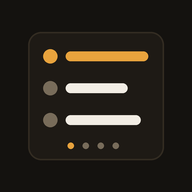
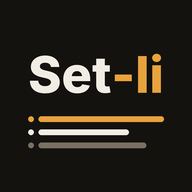
v1.36.0: アイコンをSet-liに、ホーム画面版の名前をセットリストに
Claude-Session: https://claude.ai/code/session_01XBER4d8GT4CZjhEGX2mxmY

Changed region(s): [[0.125, 0.2188, 0.875, 0.8438], [0.1875, 0.1562, 0.8438, 0.2188], [0.1562, 0.1875, 0.1875, 0.2188]]

diff --git a/index.html b/index.html
@@ -22,7 +22,8 @@
 <meta name="mobile-web-app-capable" content="yes">
 <meta name="apple-mobile-web-app-title" content="セットリスト">
 <meta name="apple-mobile-web-app-status-bar-style" content="black-translucent">
-<link rel="apple-touch-icon" href="icons/apple-touch-icon.png">
+<link rel="apple-touch-icon" href="icons/apple-touch-icon.png?v=2">
+<link rel="icon" type="image/png" href="icons/icon-192.png?v=2">
 <style>
 :root{
   --bg:#EDE8DE; --surface:#F8F5EC; --surface2:#FFFFFF; --text:#211D16; --muted:#6B6355;
@@ -808,13 +809,16 @@ if(songsMigrated) saveSongs();
 let livesMigrated = false;
 lives.forEach((l,i) => { if(l.updatedAt===undefined){ l.updatedAt = i; livesMigrated = true; } });
 if(livesMigrated) saveLives();
-const APP_VERSION = '1.35.2';        // セマンティックバージョン（メジャー.マイナー.パッチ）。更新のたびに上げる。CHANGELOG.md と合わせる
+const APP_VERSION = '1.36.0';        // セマンティックバージョン（メジャー.マイナー.パッチ）。更新のたびに上げる。CHANGELOG.md と合わせる
 const APP_RELEASE_DATE = '2026-10-17';
 const SCHEMA_VERSION = 1;  // 保存データの形式番号。データ構造を変えるときに上げ、起動時に古い形式を変換する
 const FEEDBACK_URL = 'https://tally.so/r/9qL0A4';  // ご意見・不具合報告フォーム（Tally）
 const CHANGELOG_URL = 'https://github.com/sunatrux/setlist/blob/main/CHANGELOG.md';
 // アップデート後に一度だけ出すお知らせ（最新版の分だけ書けばOK。無い版はお知らせを出さない）
 const RELEASE_NOTES = {
+  '1.36.0': [
+    'アプリのアイコンを「Set-li」のデザインに変更。ホーム画面に追加したときの名前は「セットリスト」です（すでに追加している場合は、いったん削除して追加し直すと新しいアイコンになります）'
+  ],
   '1.35.2': [
     'バックアップのファイル名に、保存した場所・日時・アプリのバージョンを入れるように（例：setlist-backup_iPhone-Safari_20261017-1742_v1.35.2.json）。復元の確認にも作成場所を表示します'
   ],

diff --git a/sw.js b/sw.js
@@ -1,7 +1,7 @@
 // プレイヤーズセットリスト Service Worker
 // 方針：ネット優先（最新版を取りに行く）→ 3秒以内に返事がない／オフラインなら保存済みの版で起動する。
 // アプリの更新は index.html の差し替えだけでOK。このファイルを変える必要はありません。
-const CACHE = 'players-setlist-v2';
+const CACHE = 'players-setlist-v3';
 const ASSETS = ['./', './index.html', './manifest.webmanifest', './icons/apple-touch-icon.png', './icons/icon-192.png'];
 const TIMEOUT_MS = 3000;
 

diff --git a/CHANGELOG.md b/CHANGELOG.md
@@ -9,6 +9,13 @@
 
 アプリ内では「設定」タブの一番下に、現在のバージョンとリリース日が表示されます。
 
+## [1.36.0] - 2026-10-17
+
+### 変更
+- アプリのアイコンを「Set-li」の文字とセットリストの行をあしらったデザインに差し替え（ホーム画面・ブラウザのタブ用。Android 向けの maskable アイコンも）
+- ホーム画面版の名前を「セットリスト」に統一（manifest の name も「セットリスト」に）。ブラウザのタブとアプリ内の見出しは「プレイヤーズセットリスト」のまま
+- オフライン用キャッシュを更新して、新しいアイコンが読み込まれるように
+
 ## [1.35.2] - 2026-10-17
 
 ### 変更
